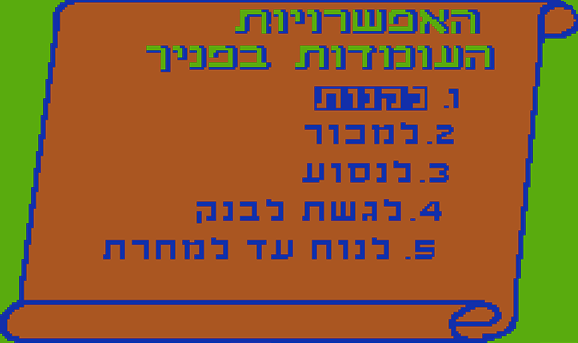
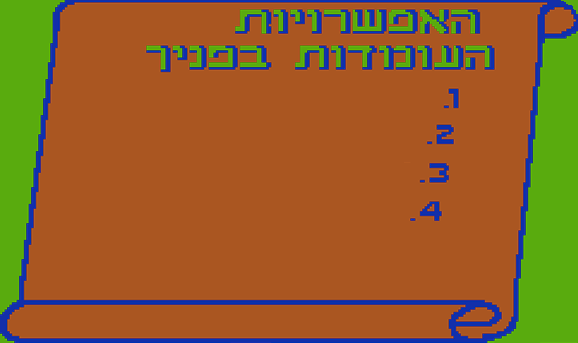
add choice buttons

diff --git a/SeaMerchantApp/src/com/example/seamerchant/scene/Options.java b/SeaMerchantApp/src/com/example/seamerchant/scene/Options.java
@@ -4,18 +4,35 @@ import java.io.IOException;
 import java.io.InputStream;
 
 import org.andengine.entity.scene.Scene;
+import org.andengine.entity.sprite.ButtonSprite;
+import org.andengine.entity.sprite.ButtonSprite.OnClickListener;
 import org.andengine.entity.sprite.Sprite;
 import org.andengine.opengl.texture.ITexture;
+import org.andengine.opengl.texture.TextureOptions;
+import org.andengine.opengl.texture.atlas.bitmap.BitmapTextureAtlas;
+import org.andengine.opengl.texture.atlas.bitmap.BitmapTextureAtlasTextureRegionFactory;
 import org.andengine.opengl.texture.bitmap.BitmapTexture;
+import org.andengine.opengl.texture.region.ITextureRegion;
 import org.andengine.opengl.texture.region.TextureRegion;
 import org.andengine.opengl.texture.region.TextureRegionFactory;
 import org.andengine.ui.activity.SimpleBaseGameActivity;
 import org.andengine.util.adt.io.in.IInputStreamOpener;
 import org.andengine.util.debug.Debug;
 
-public class Options extends Main {
+import android.util.Log;
 
+public class Options extends Main implements OnClickListener {
+    protected static final int MENU_BUY = 0;
+    protected static final int MENU_SELL = 1;
+    protected static final int MENU_TRAVEL = 2;
+    protected static final int MENU_REST = 3;
+    
 	private TextureRegion mBgTextureRegion;
+	private BitmapTextureAtlas mMenuTexture;
+	private ITextureRegion mMenuBuyTextureRegion;
+	private ITextureRegion mMenuSellTextureRegion;
+	private ITextureRegion mMenuTravelTextureRegion;
+	private ITextureRegion mMenuRestTextureRegion;
 
 	public Options(SimpleBaseGameActivity baseActivity, SideBanner sideBanner, LowerBanner lowerBanner) {
 		super(baseActivity, sideBanner, lowerBanner);
@@ -26,11 +43,30 @@ public class Options extends Main {
 		final Scene scene = new Scene();
 		final Sprite backgroundSprite = new Sprite(0, 0, mBgTextureRegion, getVertexBufferObjectManager());
 		scene.attachChild(backgroundSprite);
+
+		final ButtonSprite buyMenuItem = new ButtonSprite(313, 85, mMenuBuyTextureRegion, getVertexBufferObjectManager(), this);
+		buyMenuItem.setTag(MENU_BUY);
+		scene.attachChild(buyMenuItem);
+
+		final ButtonSprite sellMenuItem = new ButtonSprite(300, 123, mMenuSellTextureRegion, getVertexBufferObjectManager(), this);
+		sellMenuItem.setTag(MENU_SELL);
+		scene.attachChild(sellMenuItem);
+		
+		final ButtonSprite travelMenuItem = new ButtonSprite(297, 159, mMenuTravelTextureRegion, getVertexBufferObjectManager(), this);
+		travelMenuItem.setTag(MENU_TRAVEL);
+		scene.attachChild(travelMenuItem);
+		
+		final ButtonSprite restMenuItem = new ButtonSprite(113, 200, mMenuRestTextureRegion, getVertexBufferObjectManager(), this);
+		restMenuItem.setTag(MENU_REST);
+		scene.attachChild(restMenuItem);
+		
 		return scene;
 	}
 
 	@Override
 	protected void loadResourcesImpl() {
+		BitmapTextureAtlasTextureRegionFactory.setAssetBasePath("gfx/");
+		
 	    try {
 			ITexture backgroundTexture = new BitmapTexture(getTextureManager(), new IInputStreamOpener() {
 			    @Override
@@ -45,6 +81,15 @@ public class Options extends Main {
 		} catch (IOException e) {
 			Debug.e(e);
 		}
+	    
+		mMenuTexture = new BitmapTextureAtlas(this.getTextureManager(), 512, 256, TextureOptions.BILINEAR);
+		mMenuBuyTextureRegion = BitmapTextureAtlasTextureRegionFactory.createFromAsset(mMenuTexture, mBaseActivity, "choice_buy_sel.png", 0, 0);
+		mMenuSellTextureRegion = BitmapTextureAtlasTextureRegionFactory.createFromAsset(mMenuTexture, mBaseActivity, "choice_sell_nor.png", 0, 30);
+		mMenuTravelTextureRegion = BitmapTextureAtlasTextureRegionFactory.createFromAsset(mMenuTexture, mBaseActivity, "choice_travel_nor.png", 0, 60);
+		mMenuRestTextureRegion = BitmapTextureAtlasTextureRegionFactory.createFromAsset(mMenuTexture, mBaseActivity, "choice_rest_nor.png", 0, 90);
+
+		mMenuTexture.load();
+
 	}
 
 	@Override
@@ -52,4 +97,20 @@ public class Options extends Main {
 		mBgTextureRegion.getTexture().unload();
 	}
 
+	@Override
+	public void onClick(ButtonSprite pButtonSprite, float pTouchAreaLocalX, float pTouchAreaLocalY) {
+		int tag = pButtonSprite.getTag();
+		if (tag == MENU_BUY) {
+			Log.d("Options", "MENU_BUY pressed");
+		} else if (tag == MENU_SELL) {
+			Log.d("Options", "MENU_SELL pressed");
+		} else if (tag == MENU_TRAVEL) {
+			Log.d("Options", "MENU_TRAVEL pressed");
+		} else if (tag == MENU_REST) {
+			Log.d("Options", "MENU_REST pressed");
+		}
+
+	}
+
+	
 }
